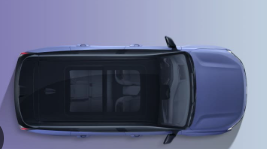
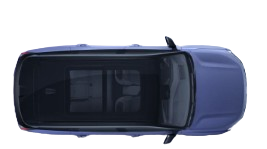
Fix: remove car rotation, fix start button position

diff --git a/public/style.css b/public/style.css
@@ -148,8 +148,8 @@ html, body {
 .geely-facts-start {
     display: flex;
     flex-direction: column;
-    gap: 8px;
-    margin: 20px 0;
+    gap: 6px;
+    margin: 15px 0;
     animation: fadeIn 1s ease-out 0.5s both;
 }
 
@@ -166,15 +166,11 @@ html, body {
 
 /* Фикс для стартового экрана */
 #start-screen {
-    gap: 0;
-}
-
-#start-screen .logo {
-    margin-bottom: 15px;
-}
-
-#start-screen .btn-play {
-    margin-top: 10px;
+    display: flex;
+    flex-direction: column;
+    align-items: center;
+    justify-content: center;
+    padding: 20px;
 }
 
 /* ==================== ЭКРАН ДОСТИЖЕНИЙ ==================== */
@@ -463,12 +459,10 @@ html, body {
     width: 100%;
     height: 100%;
     background-image: url('car.png');
-    background-size: cover;
+    background-size: contain;
     background-repeat: no-repeat;
     background-position: center;
     filter: drop-shadow(0 8px 15px rgba(0,0,0,0.5));
-    /* Поворачиваем на 90 градусов чтобы нос был вверху */
-    transform: rotate(90deg);
 }
 
 /* Скрываем старые CSS элементы машины когда есть картинка */
